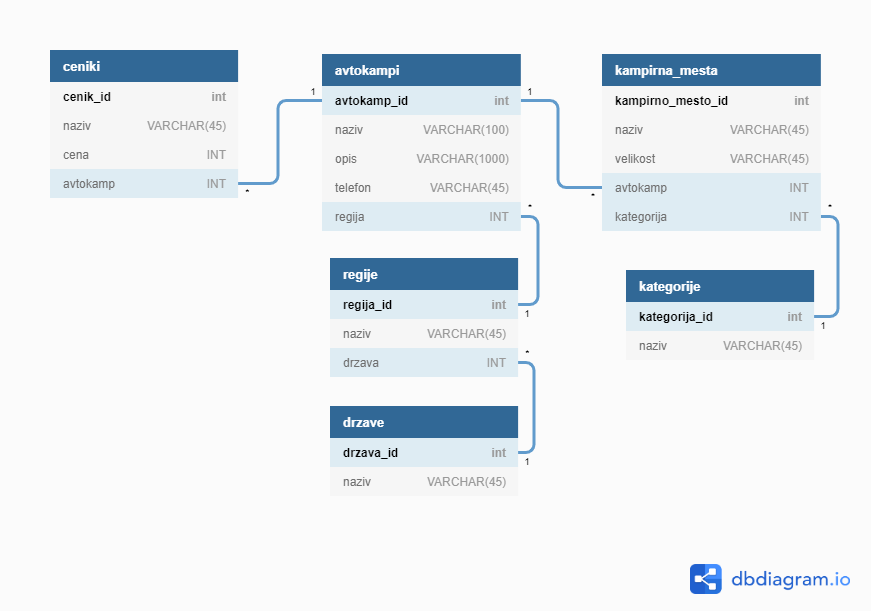
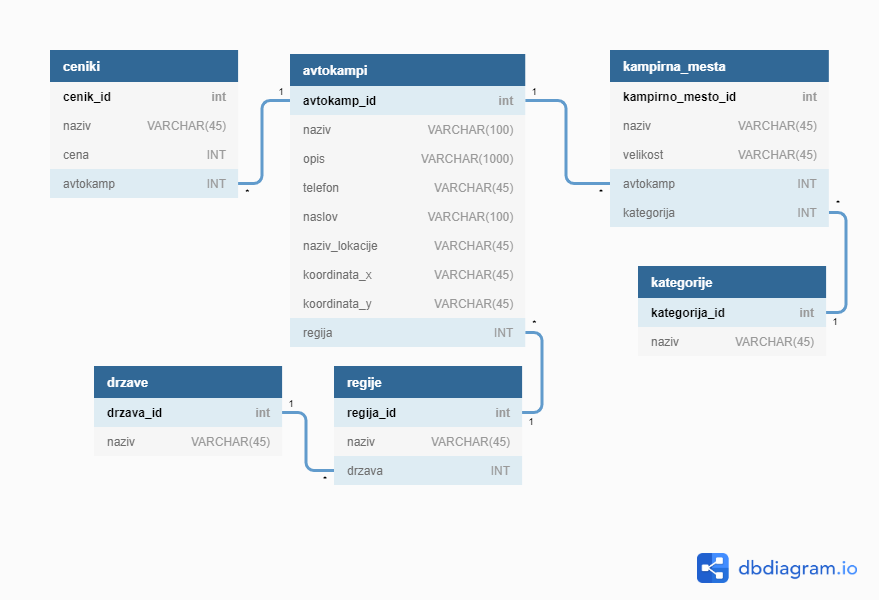
Add coordinates and locations for camps

diff --git a/api/CampingOverviewAPI/Models/avtokampiContext.cs b/api/CampingOverviewAPI/Models/avtokampiContext.cs
@@ -52,6 +52,22 @@ namespace CampingOverviewAPI.Models
                     .HasColumnName("telefon")
                     .HasMaxLength(45);
 
+                entity.Property(e => e.KoordinataX)
+                    .HasColumnName("koordinata_x")
+                    .HasMaxLength(45);
+
+                entity.Property(e => e.KoordinataY)
+                    .HasColumnName("koordinata_y")
+                    .HasMaxLength(45);
+
+                entity.Property(e => e.Naslov)
+                    .HasColumnName("naslov")
+                    .HasMaxLength(100);
+
+                entity.Property(e => e.NazivLokacije)
+                    .HasColumnName("naziv_lokacije")
+                    .HasMaxLength(45);
+
                 entity.HasOne(d => d.RegijaNavigation)
                     .WithMany(p => p.Avtokampi)
                     .HasForeignKey(d => d.Regija)

diff --git a/api/CampingOverviewAPI/Controllers/AvtokampiController.cs b/api/CampingOverviewAPI/Controllers/AvtokampiController.cs
@@ -204,7 +204,11 @@ namespace CampingOverviewAPI.Controllers
         ///         "avtokampId": 1,
         ///         "naziv": "Kamp NJIVICE2",
         ///         "opis": "Opis kampa2",
+        ///         "naslov": "Večna pot 112",
         ///         "telefon": "083211232",
+        ///         "nazivLokacije": "Njivice",
+        ///         "koordinataX": "45.33399",
+        ///         "koordinataY": "22.19993",
         ///         "regija": 1
         ///     }
         ///

diff --git a/api/CampingOverviewAPI/Models/Avtokampi.cs b/api/CampingOverviewAPI/Models/Avtokampi.cs
@@ -15,6 +15,10 @@ namespace CampingOverviewAPI.Models
         public string Naziv { get; set; }
         public string Opis { get; set; }
         public string Telefon { get; set; }
+        public string Naslov { get; set; }
+        public string NazivLokacije { get; set; }
+        public string KoordinataX { get; set; }
+        public string KoordinataY { get; set; }
         public int Regija { get; set; }
 
         public virtual Regije RegijaNavigation { get; set; }
